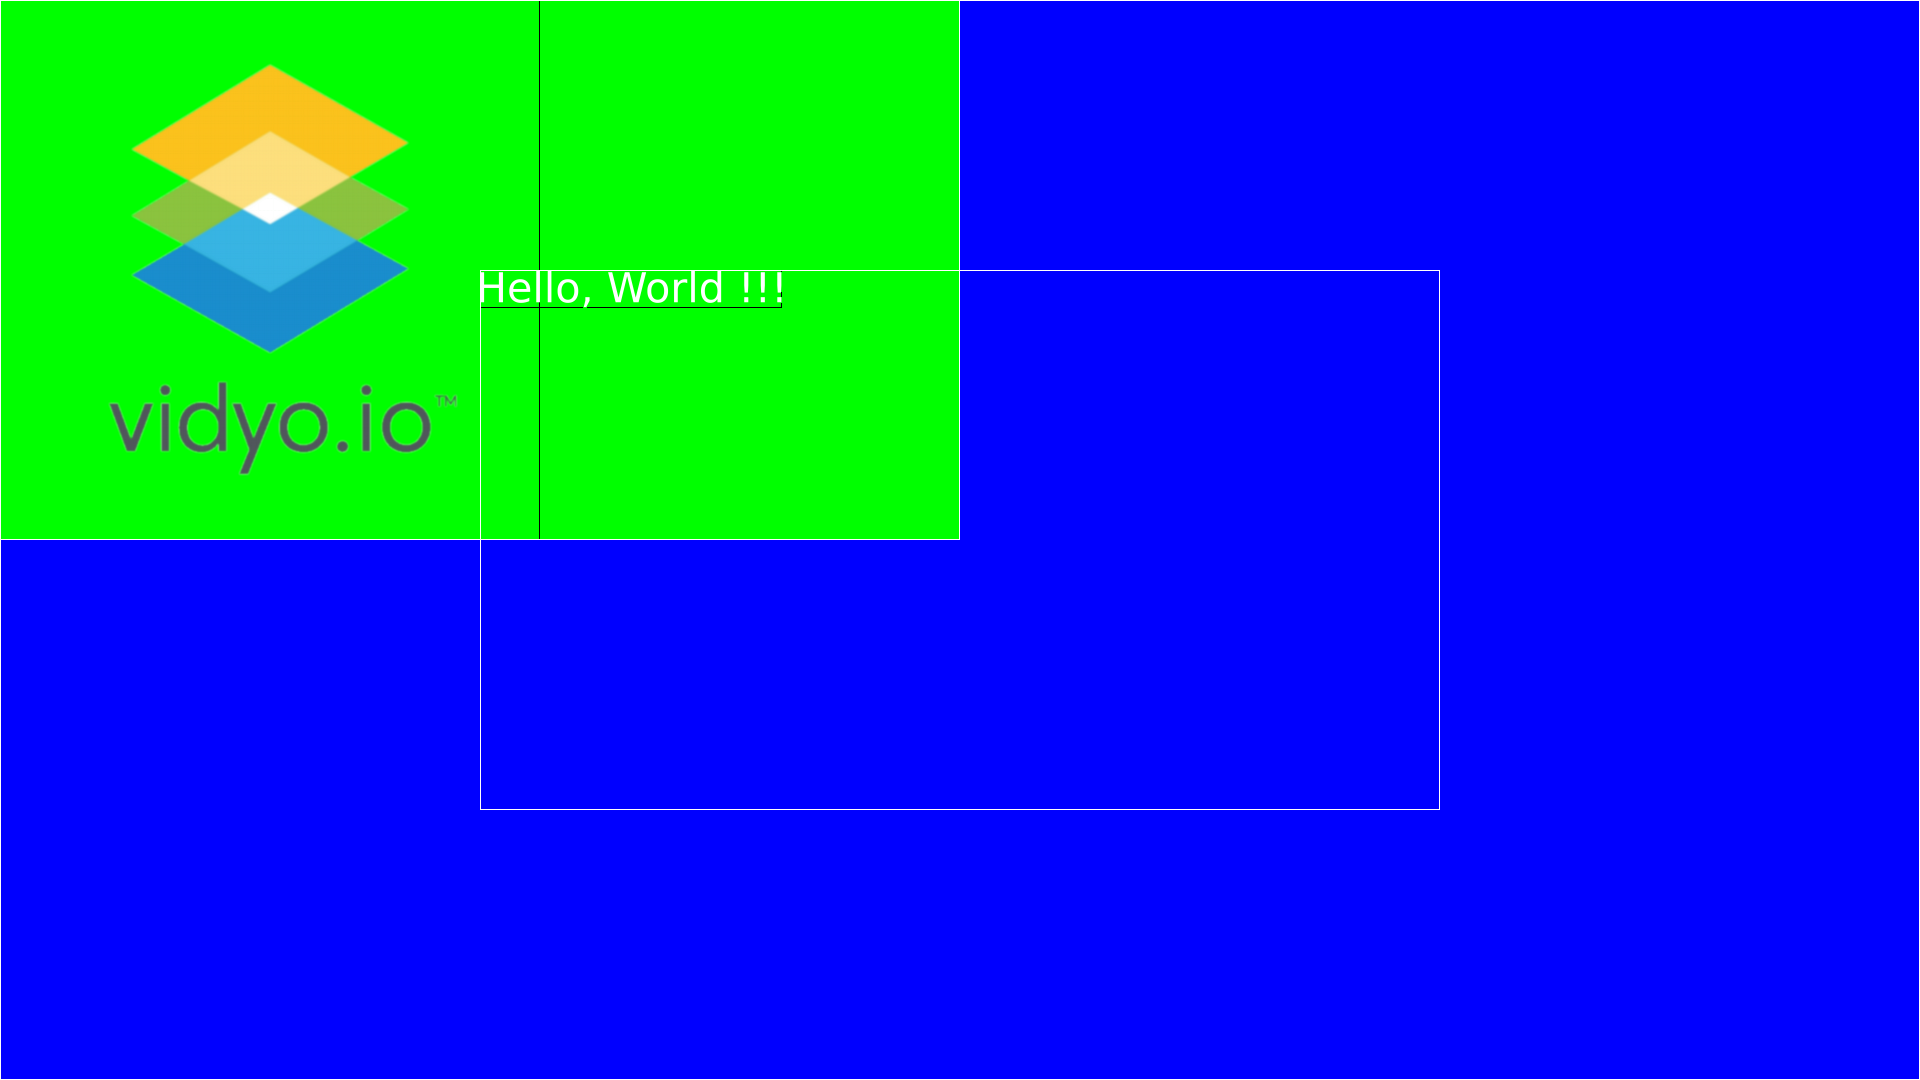
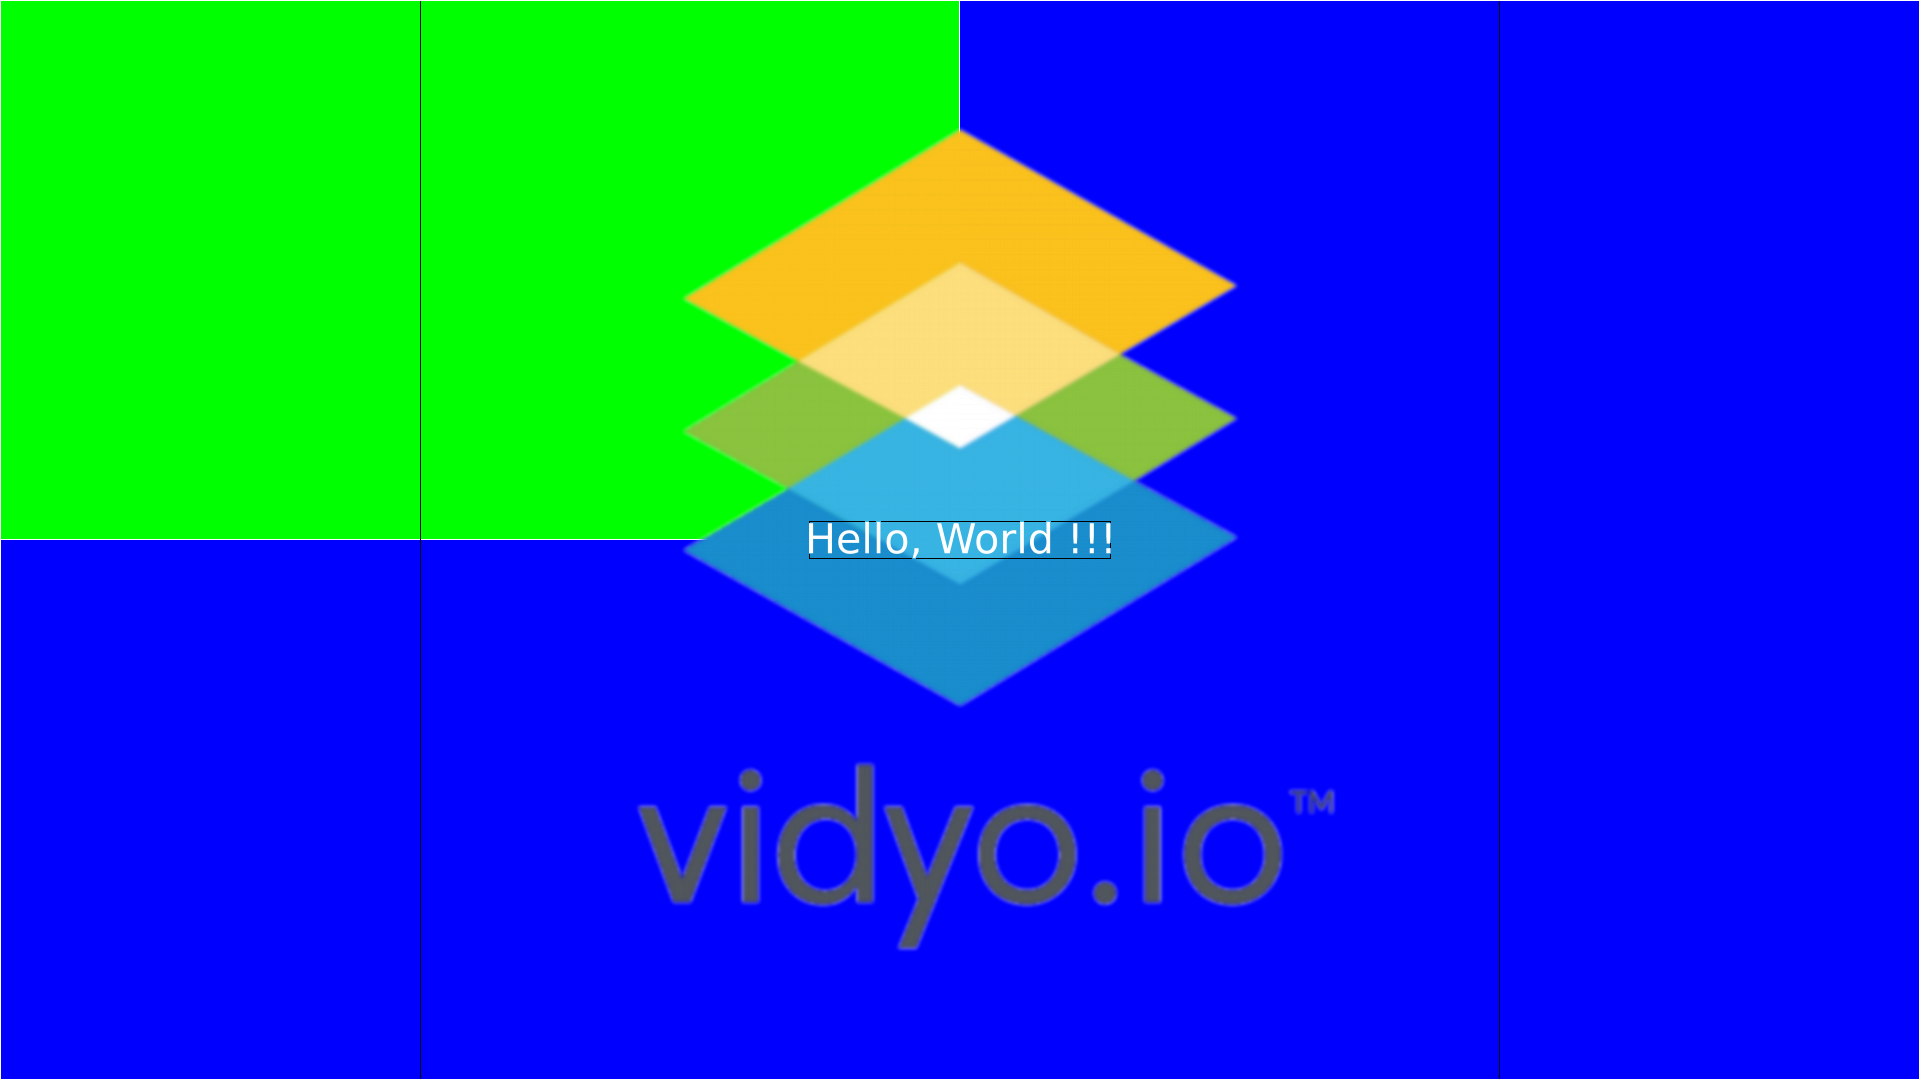
no message

diff --git a/src/node.rs b/src/node.rs
@@ -8,47 +8,46 @@ use shape::*;
 use sprite::Sprite;
 
 pub struct Node<'a> {
-    pub size:Size,
-    pub pos:Pos,
+    pub float_frame : FloatRect,
     pub anchor_point:AnchorPoint,
-    pub fix_rect : FixRect,
+    pub frame : FixRect,
     pub need_draw: bool,
     children: Vec<cell::RefCell<Node<'a>>>,
     sprite: Box<Sprite<'a>>,
 }
 
 impl<'a, 'b : 'a> Node<'a> {
-    fn fix_rect_for_parent_fix_rect(&self, parent_fixed_rect:&FixRect) -> FixRect {
-        let node_fix_width = (self.size.width * (parent_fixed_rect.size.width as f32)) as u32;
-        let node_fix_height = (self.size.height * (parent_fixed_rect.size.height as f32)) as u32;
+    fn fix_rect_for_parent_fix_rect(&self, parent_node_rect:&FixRect) -> FixRect {
+        let node_width = (self.float_frame.size.width * (parent_node_rect.size.width as f32)) as u32;
+        let node_height = (self.float_frame.size.height * (parent_node_rect.size.height as f32)) as u32;
 
-        let half_parent_width = (parent_fixed_rect.size.width >> 1) as f32;
-        let half_parent_height = (parent_fixed_rect.size.height >> 1) as f32;
+        let half_parent_width = (parent_node_rect.size.width >> 1) as f32;
+        let half_parent_height = (parent_node_rect.size.height >> 1) as f32;
 
         FixRect {
             pos : FixPos {
-                x : ((parent_fixed_rect.size.width - node_fix_width) as f32 * self.anchor_point.x + (self.pos.x * half_parent_width)) as u32,
-                y : ((parent_fixed_rect.size.height - node_fix_height) as f32 * self.anchor_point.y + (self.pos.y * half_parent_height)) as u32,
+                x : ((parent_node_rect.size.width - node_width) as f32 * self.anchor_point.x + (self.float_frame.pos.x * half_parent_width)) as u32,
+                y : ((parent_node_rect.size.height - node_height) as f32 * self.anchor_point.y + (self.float_frame.pos.y * half_parent_height)) as u32,
             },
             size : FixSize {
-                width : node_fix_width,
-                height : node_fix_height,
+                width : node_width,
+                height : node_height,
             },
         }
     }
 
-    pub fn layout(&mut self, fix_rect:FixRect, screen_info:&ScreenInfo) {
-        self.fix_rect = fix_rect;
+    pub fn layout(&mut self, frame:FixRect, screen_info:&ScreenInfo) {
+        self.frame = frame;
 
         for child in &self.children {
             let mut child_node = child.borrow_mut();
-            let child_node_fix_rect = child_node.fix_rect_for_parent_fix_rect(&self.fix_rect);
-            child_node.layout(child_node_fix_rect, screen_info);
+            let child_node_frame = child_node.fix_rect_for_parent_fix_rect(&self.frame);
+            child_node.layout(child_node_frame, screen_info);
         }
     }
 
     pub fn draw(&mut self, screen_info:&ScreenInfo) {
-        self.sprite.draw(&self.fix_rect, screen_info);
+        self.sprite.draw(&self.frame, screen_info);
         self.need_draw = false;
 
         for child in &self.children {
@@ -58,7 +57,7 @@ impl<'a, 'b : 'a> Node<'a> {
     }
 
     pub fn render(&mut self, screen_info:&ScreenInfo, canvas_ptr:*mut u32) {
-        self.sprite.render(&self.fix_rect, screen_info, canvas_ptr);
+        self.sprite.render(&self.frame, screen_info, canvas_ptr);
 
         for child in &self.children {
             let mut child_node = child.borrow_mut();
@@ -70,37 +69,34 @@ impl<'a, 'b : 'a> Node<'a> {
         self.children.push(cell::RefCell::new(node));
     }
 
-    pub fn new_rect_node(frame:FloatRect, sprite:RectSprite) -> Node<'a> {
+    pub fn new_rect_node(float_frame:FloatRect, sprite:RectSprite) -> Node<'a> {
         Node {
-            size: frame.size,
-            pos: frame.pos,
+            float_frame : float_frame,
             anchor_point: ANCHOR_POINT_CENTER,
             children: vec![],
-            fix_rect: FIX_RECT_ZERO,
+            frame: FIX_RECT_ZERO,
             need_draw: true,
             sprite: Box::new(sprite),
         }
     }
 
-    pub fn new_text(frame:FloatRect, sprite:TextSprite) -> Node<'a> {
+    pub fn new_text(float_frame:FloatRect, sprite:TextSprite) -> Node<'a> {
          Node {
-            size: frame.size,
-            pos: frame.pos,
+            float_frame : float_frame,
             anchor_point: ANCHOR_POINT_CENTER,
             children: vec![],
-            fix_rect: FIX_RECT_ZERO,
+             frame: FIX_RECT_ZERO,
             need_draw: true,
             sprite: Box::new(sprite),
         }
     }
 
-    pub fn new_texture(frame:FloatRect, sprite:TextureSprite) -> Node<'a> {
+    pub fn new_texture(float_frame:FloatRect, sprite:TextureSprite) -> Node<'a> {
         Node {
-            size: frame.size,
-            pos: frame.pos,
+            float_frame : float_frame,
             anchor_point: ANCHOR_POINT_CENTER,
             children: vec![],
-            fix_rect: FIX_RECT_ZERO,
+            frame: FIX_RECT_ZERO,
             need_draw: true,
             sprite: Box::new(sprite),
         }

diff --git a/src/texture.rs b/src/texture.rs
@@ -4,14 +4,16 @@ use std::fs;
 use std::io::{BufReader};
 use image::{GenericImage, DynamicImage, imageops};
 
-use dimension::{FixRect, FixSize, FIX_POS_ZERO};
+use dimension::*;
 use screen_writer::{ScreenInfo};
 use sprite::{Sprite, render_to_canvas};
 
 pub struct TextureSprite {
     texture : DynamicImage,
+    pub gravity : Gravity,
     size : FixSize,
     raw_pixels : Vec<u8>,
+    frame : FixRect,
 }
 
 impl TextureSprite {
@@ -24,33 +26,49 @@ impl TextureSprite {
 
         TextureSprite {
             raw_pixels : load_result.raw_pixels(),
+            gravity : GRAVITY_CENTER,
             size : FixSize {
                 width : load_result.width(),
                 height : load_result.height(),
             },
             texture : load_result,
+            frame : FIX_RECT_ZERO,
         }
     }
 }
 
 impl<'a> Sprite<'a> for TextureSprite {
 
-    fn draw(&mut self, fixed_rect:&FixRect, _screen_info:&ScreenInfo) {
+    fn draw(&mut self, outer_rect:&FixRect, _screen_info:&ScreenInfo) {
         let image = &self.texture;
 
-        if image.width() != fixed_rect.size.width && image.height() != fixed_rect.size.height {
-            let new_image = image.resize(fixed_rect.size.width, fixed_rect.size.height, imageops::Gaussian);
+        let mut width = outer_rect.size.width;
+        let mut height = outer_rect.size.height;
+
+        if image.width() != outer_rect.size.width && image.height() != outer_rect.size.height {
+            width = outer_rect.size.width.min(width);
+            height = outer_rect.size.height.min(height);
+            let new_image = image.resize(width, height, imageops::Gaussian);
             self.raw_pixels = new_image.raw_pixels();
             self.size = FixSize {
                 width : new_image.width(),
                 height : new_image.height(),
             };
+            width = new_image.width();
+            height = new_image.width();
         }
+
+        let mut frame = FixRect {pos : FIX_POS_ZERO, size : FixSize {width : width, height : height}};
+
+        frame.pos.x = ((outer_rect.size.width as f32 * self.gravity.x) - (frame.size.width as f32 * self.gravity.x)) as u32;
+        frame.pos.y = ((outer_rect.size.height as f32 * self.gravity.y) - (frame.size.height as f32 * self.gravity.y)) as u32;
+
+        self.frame = frame;
+
     }
 
     fn render(&mut self, fixed_rect:&FixRect, screen_info:&ScreenInfo, canvas_ptr:*mut u32) {
         let src_slice_ptr_u32 = self.raw_pixels.as_slice().as_ptr() as *mut u32;
-        let inner_frame = FixRect { pos: FIX_POS_ZERO, size: FixSize { width: self.size.width, height : self.size.height}};
-        render_to_canvas(src_slice_ptr_u32, fixed_rect, &inner_frame, screen_info, canvas_ptr);
+        render_to_canvas(src_slice_ptr_u32, fixed_rect, &self.frame, screen_info, canvas_ptr);
     }
 }

diff --git a/examples/simple_sprite.rs b/examples/simple_sprite.rs
@@ -39,14 +39,14 @@ fn run() -> Result<(), ScreenWriterError> {
 
 
     let mut sprite2=  TextureSprite::new_for_texture("mmm.png");
-    let mut node2 = Node::new_texture(FloatRect{pos:FLOAT_POS_ZERO, size:FLOAT_SIZE_HALF}, sprite2);
+    let mut node2 = Node::new_texture(FloatRect{pos:FLOAT_POS_ZERO, size:FLOAT_SIZE_FULL}, sprite2);
     node2.anchor_point = ANCHOR_POINT_TOP_LEFT;
 
 
     let mut sprite3=  TextSprite::new_for_text("Hello, World !!!", "DejaVuSans.ttf");
-    sprite3.gravity = GRAVITY_TOP_LEFT;
+    sprite3.gravity = GRAVITY_CENTER;
 
-    let mut node3 = Node::new_text(FloatRect{pos:FLOAT_POS_ZERO, size:FLOAT_SIZE_HALF}, sprite3);
+    let mut node3 = Node::new_text(FloatRect{pos:FLOAT_POS_ZERO, size:FLOAT_SIZE_FULL}, sprite3);
 
 
     let mut background_sprite = RectSprite::new(fb2d::Color::blue());
